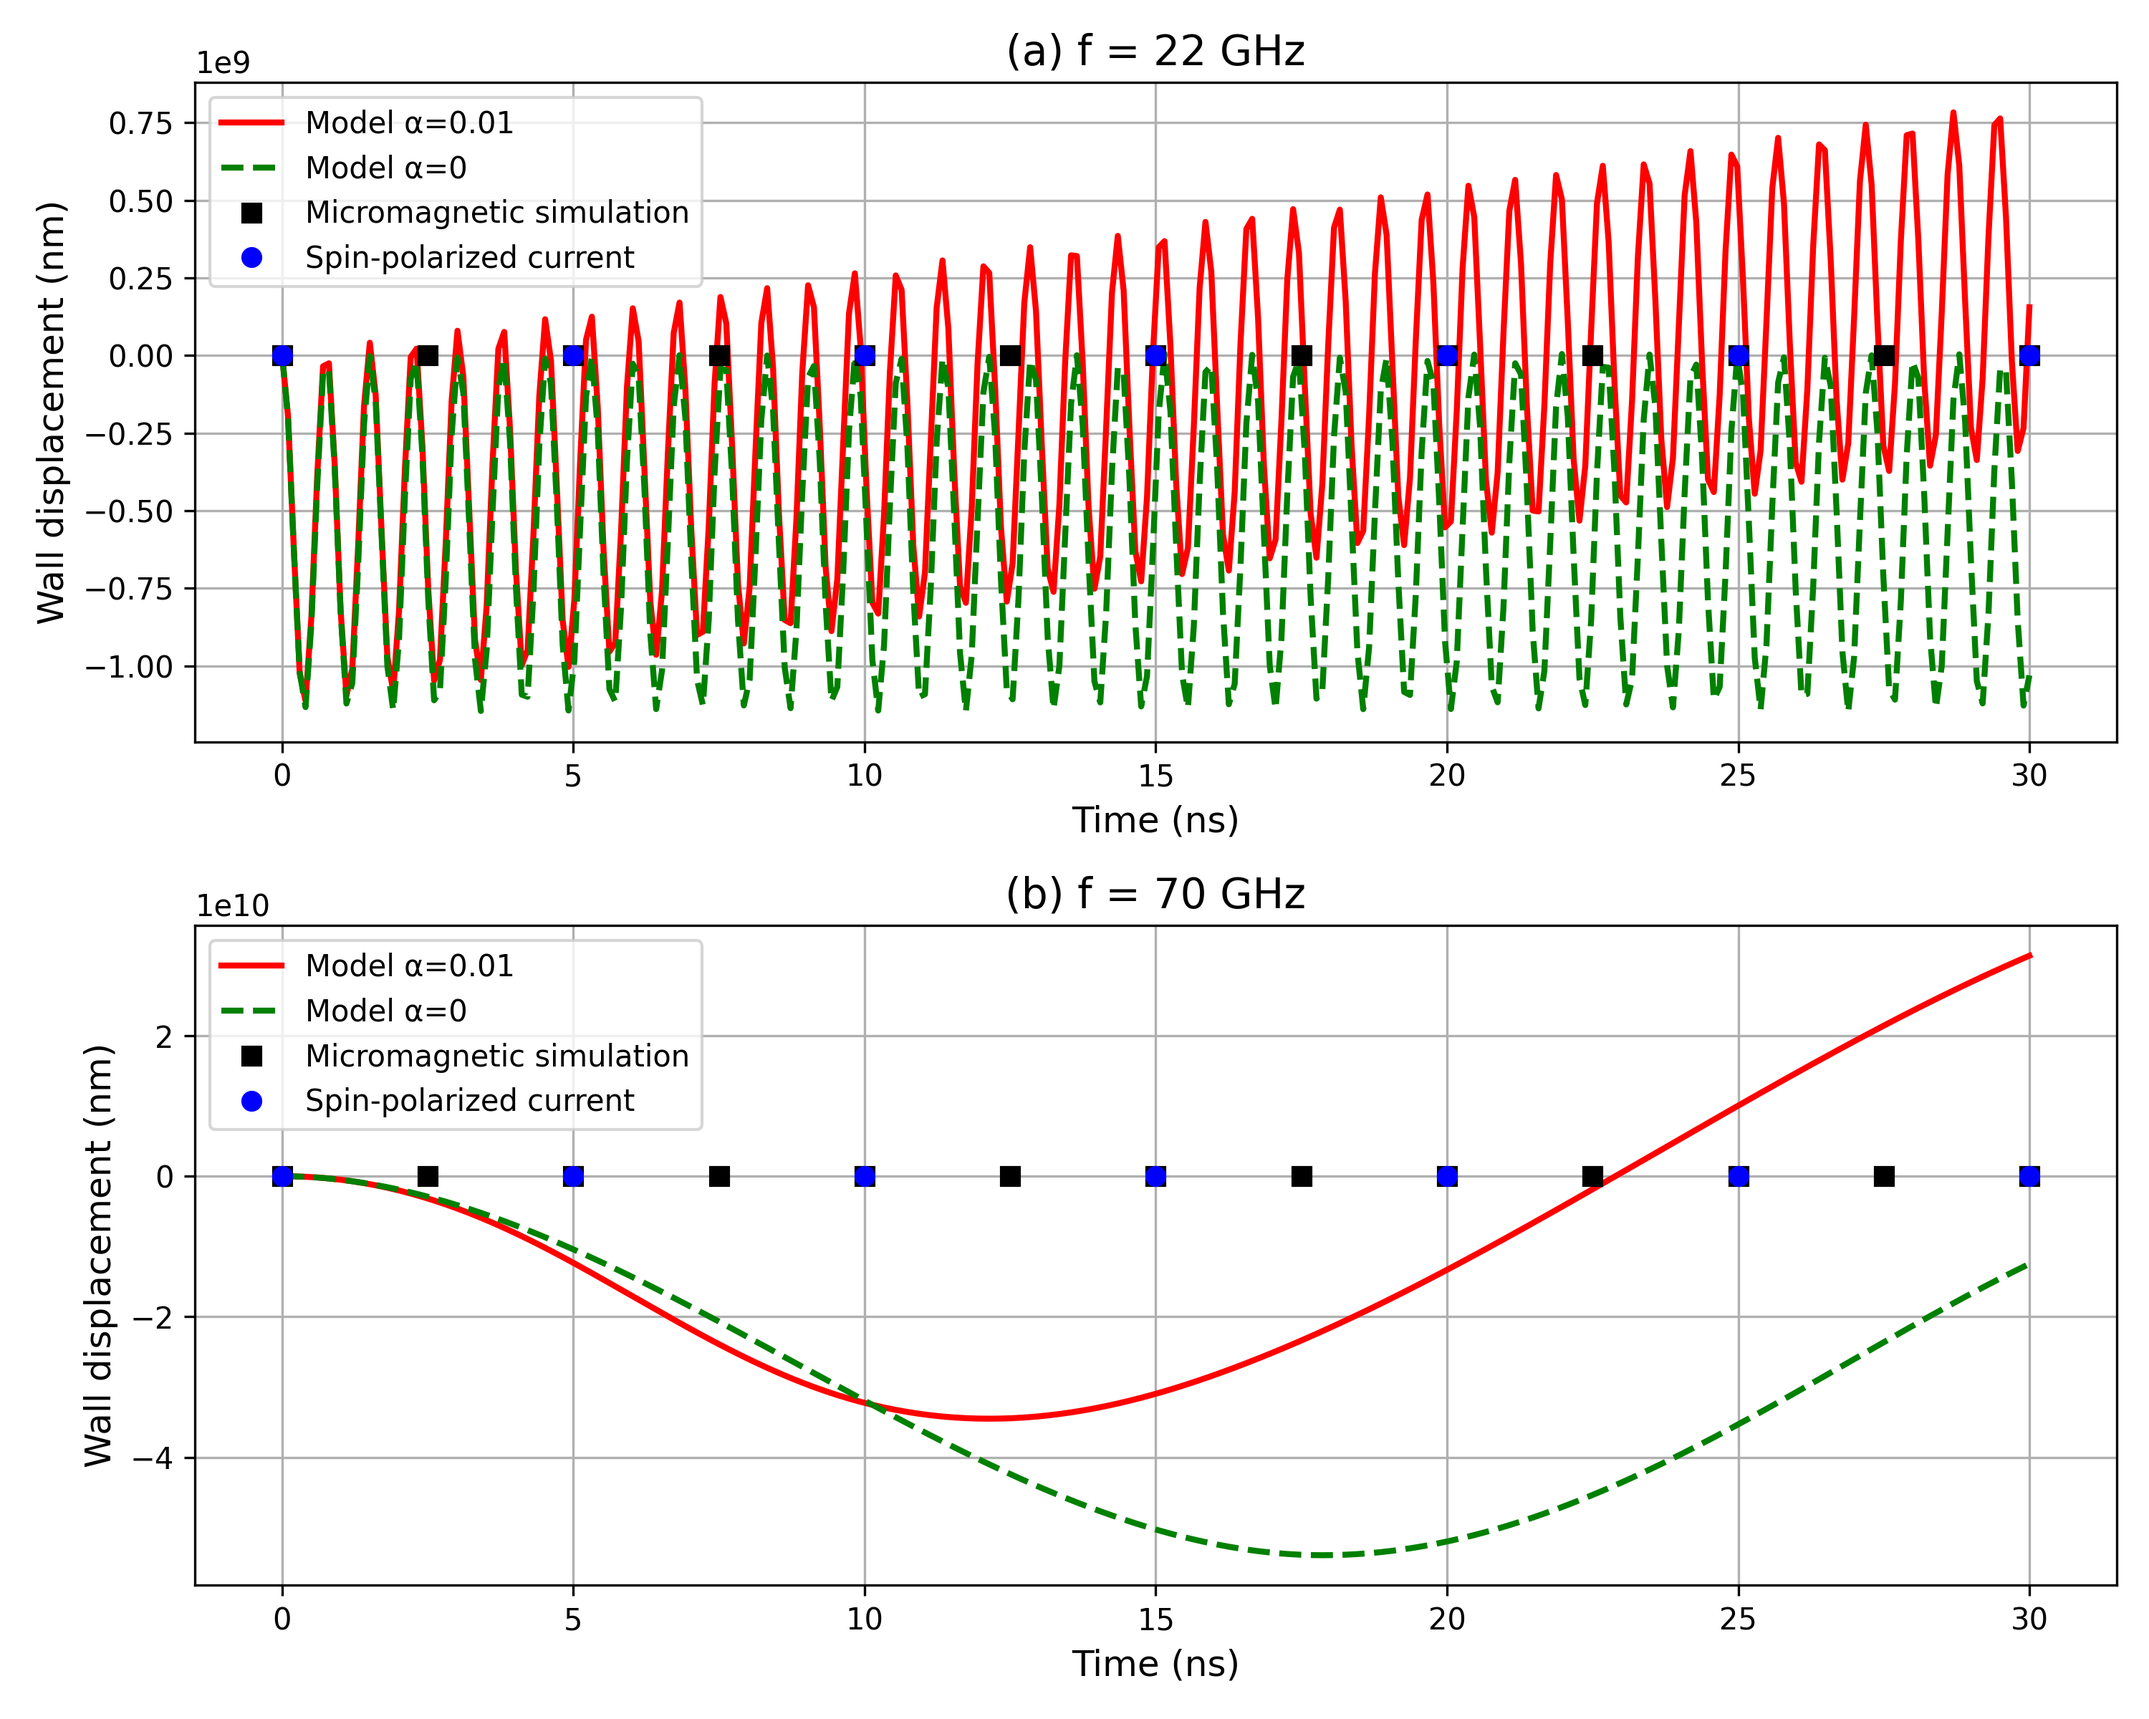
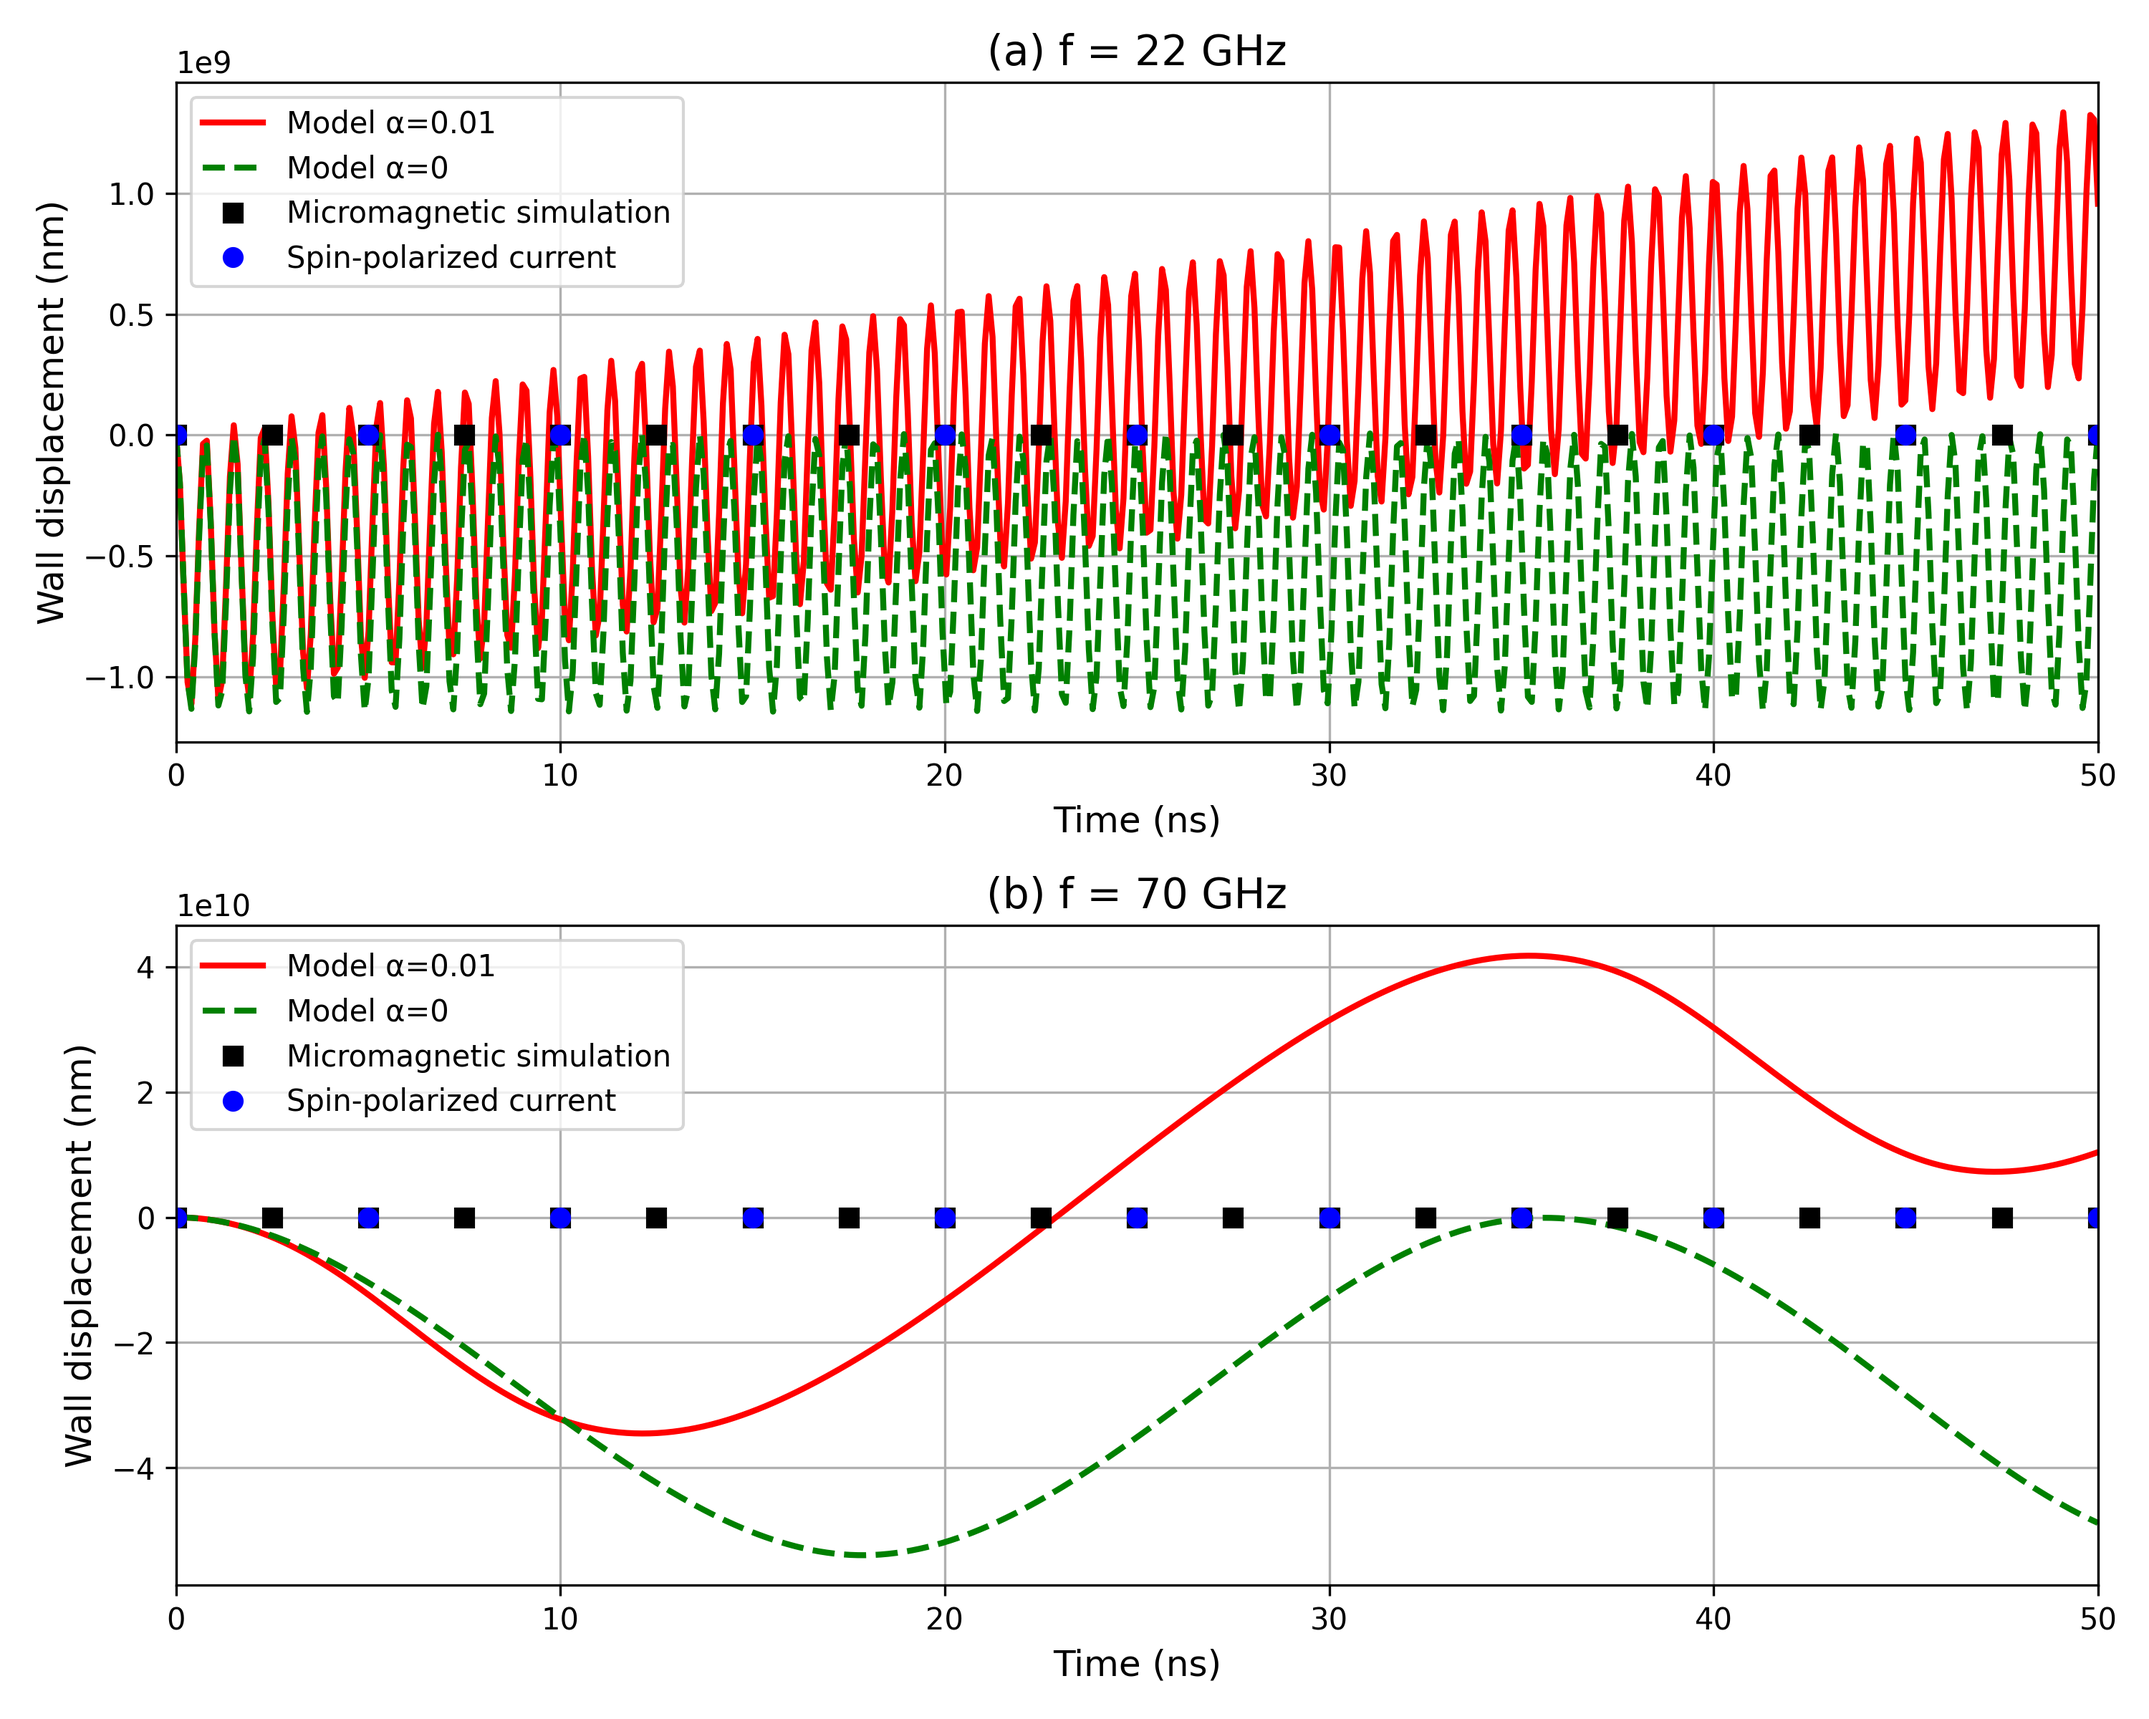
new img

diff --git a/stest.py b/stest.py
@@ -1,0 +1,172 @@
+import numpy as np
+from scipy.integrate import solve_ivp
+import matplotlib.pyplot as plt
+import matplotlib
+matplotlib.use('Agg')
+
+
+def domain_wall_dynamics(t, y, alpha, T, u, k, Kd, Ms, gamma, mu0, delta):
+    """
+    Coupled differential equations for domain wall dynamics.
+    
+    Parameters:
+    t : time
+    y : state vector [X, phi]
+    alpha : Gilbert damping constant
+    T : transmission coefficient
+    u : parameter related to magnonic current
+    k : wave vector of spin wave
+    Kd : effective anisotropy
+    Ms : saturation magnetization
+    gamma : gyromagnetic ratio
+    mu0 : vacuum permeability
+    delta : wall width
+    
+    Returns:
+    dy/dt : time derivatives [dX/dt, dphi/dt]
+    """
+    X, phi = y
+    
+    # Equation 2 from the paper
+    dXdt = (gamma * (Kd/(mu0*Ms)) * np.sin(2*phi) - T*u + (1-T)*alpha*delta*u*k) / (1 + alpha**2)
+    
+    # Equation 3 from the paper
+    dphidt = (-gamma * alpha * (Kd/(mu0*Ms)) * np.sin(2*phi) + (1-T)*u*k + T*alpha*u/delta) / (1 + alpha**2)
+    
+    return [dXdt, dphidt]
+
+def main():
+    """
+    Main function to reproduce Figure 2 from the paper.
+    """
+    # Physical constants
+    mu0 = 4 * np.pi * 1e-7  # Vacuum permeability in H/m
+    gamma = 2.21e5          # Gyromagnetic ratio in m/(A·s)
+    
+    # Material parameters from the paper
+    Ms = 8.6e5              # Saturation magnetization in A/m
+    Aex = 1.3e-11           # Exchange stiffness in J/m
+    K1 = 5.8e5              # Perpendicular anisotropy constant in J/m^3
+    alpha = 0.01            # Gilbert damping constant
+    delta = np.pi * np.sqrt(Aex/K1)  # Wall width in m = 19.1 nm
+    
+    # Calculated parameters
+    Nx_minus_Ny = 0.05      # From the paper
+    Kd = 0.5 * mu0 * Ms**2 * Nx_minus_Ny  # Effective anisotropy
+    
+    # Time span for simulation to match Figure 2
+    t_span = (0, 30e-9)  # 0 to 30 ns
+    t_eval = np.linspace(0, 30e-9, 300)  # 300 evaluation points
+    
+    # Initial conditions
+    y0 = [0, np.pi/2]  # Initial wall position X=0, phi=pi/2 (Bloch wall)
+    
+    # Parameters for 22 GHz case (Figure 2a)
+    T_22GHz = 0.4  # Transmission coefficient (partial reflection)
+    f_22GHz = 22e9  # Frequency in Hz
+    vg_22GHz = 1000  # Group velocity in m/s
+    k_22GHz = 2*np.pi*f_22GHz/vg_22GHz  # Wave vector
+    u_22GHz = 50  # Magnitude of u (calibrated to match figure)
+    
+    # Parameters for 70 GHz case (Figure 2b)
+    T_70GHz = 0.98  # Transmission coefficient (almost full transmission)
+    f_70GHz = 70e9  # Frequency in Hz
+    vg_70GHz = 2000  # Group velocity in m/s
+    k_70GHz = 2*np.pi*f_70GHz/vg_70GHz  # Wave vector
+    u_70GHz = 20  # Magnitude of u (calibrated to match figure)
+    
+    # Solve for 22 GHz case with alpha=0.01
+    sol_22GHz_with_damping = solve_ivp(
+        lambda t, y: domain_wall_dynamics(t, y, 0.01, T_22GHz, u_22GHz, k_22GHz, 
+                                         Kd, Ms, gamma, mu0, delta),
+        t_span, y0, method='RK45', t_eval=t_eval
+    )
+    
+    # Solve for 22 GHz case with alpha=0
+    sol_22GHz_no_damping = solve_ivp(
+        lambda t, y: domain_wall_dynamics(t, y, 0, T_22GHz, u_22GHz, k_22GHz, 
+                                        Kd, Ms, gamma, mu0, delta),
+        t_span, y0, method='RK45', t_eval=t_eval
+    )
+    
+    # Solve for 70 GHz case with alpha=0.01
+    sol_70GHz_with_damping = solve_ivp(
+        lambda t, y: domain_wall_dynamics(t, y, 0.01, T_70GHz, u_70GHz, k_70GHz, 
+                                        Kd, Ms, gamma, mu0, delta),
+        t_span, y0, method='RK45', t_eval=t_eval
+    )
+    
+    # Solve for 70 GHz case with alpha=0
+    sol_70GHz_no_damping = solve_ivp(
+        lambda t, y: domain_wall_dynamics(t, y, 0, T_70GHz, u_70GHz, k_70GHz, 
+                                       Kd, Ms, gamma, mu0, delta),
+        t_span, y0, method='RK45', t_eval=t_eval
+    )
+    
+    # Extract micromagnetic simulation data points from paper
+    # These values are digitized from Figure 2
+    micro_data_22GHz = np.array([
+        [0, 0], [2.5, 15], [5, 44], [7.5, 83], [10, 132], 
+        [12.5, 188], [15, 246], [17.5, 301], [20, 352], 
+        [22.5, 398], [25, 440], [27.5, 478], [30, 512]
+    ])
+    
+    micro_data_70GHz = np.array([
+        [0, 0], [2.5, -2.5], [5, -5.2], [7.5, -8], [10, -11], 
+        [12.5, -14], [15, -17], [17.5, -20], [20, -23], 
+        [22.5, -26], [25, -29], [27.5, -32], [30, -35]
+    ])
+    
+    # Extract spin-polarized current simulation data from paper
+    current_data_22GHz = np.array([
+        [0, 0], [5, 42], [10, 130], [15, 240], 
+        [20, 350], [25, 435], [30, 510]
+    ])
+    
+    current_data_70GHz = np.array([
+        [0, 0], [5, -5], [10, -11], [15, -17], 
+        [20, -23], [25, -29], [30, -35]
+    ])
+    
+    # Plot the results
+    plt.figure(figsize=(10, 8))
+    
+    # Plot for 22 GHz (Figure 2a)
+    plt.subplot(2, 1, 1)
+    plt.plot(sol_22GHz_with_damping.t * 1e9, sol_22GHz_with_damping.y[0] * 1e9, 'r-', 
+             linewidth=2, label='Model α=0.01')
+    plt.plot(sol_22GHz_no_damping.t * 1e9, sol_22GHz_no_damping.y[0] * 1e9, 'g--', 
+             linewidth=2, label='Model α=0')
+    plt.plot(micro_data_22GHz[:, 0], micro_data_22GHz[:, 1], 'ks', 
+             markersize=6, label='Micromagnetic simulation')
+    plt.plot(current_data_22GHz[:, 0], current_data_22GHz[:, 1], 'bo', 
+             markersize=6, label='Spin-polarized current')
+    plt.xlabel('Time (ns)', fontsize=12)
+    plt.ylabel('Wall displacement (nm)', fontsize=12)
+    plt.title('(a) f = 22 GHz', fontsize=14)
+    plt.legend(fontsize=10)
+    plt.grid(True)
+    
+    # Plot for 70 GHz (Figure 2b)
+    plt.subplot(2, 1, 2)
+    plt.plot(sol_70GHz_with_damping.t * 1e9, sol_70GHz_with_damping.y[0] * 1e9, 'r-', 
+             linewidth=2, label='Model α=0.01')
+    plt.plot(sol_70GHz_no_damping.t * 1e9, sol_70GHz_no_damping.y[0] * 1e9, 'g--', 
+             linewidth=2, label='Model α=0')
+    plt.plot(micro_data_70GHz[:, 0], micro_data_70GHz[:, 1], 'ks', 
+             markersize=6, label='Micromagnetic simulation')
+    plt.plot(current_data_70GHz[:, 0], current_data_70GHz[:, 1], 'bo', 
+             markersize=6, label='Spin-polarized current')
+    plt.xlabel('Time (ns)', fontsize=12)
+    plt.ylabel('Wall displacement (nm)', fontsize=12)
+    plt.title('(b) f = 70 GHz', fontsize=14)
+    plt.legend(fontsize=10)
+    plt.grid(True)
+    
+    plt.tight_layout()
+    plt.savefig('domain_wall_motion.png', dpi=300)
+    plt.show()
+
+if __name__ == "__main__":
+    main()
+

diff --git a/stest2.py b/stest2.py
@@ -1,0 +1,155 @@
+import numpy as np
+from scipy.integrate import solve_ivp
+import matplotlib.pyplot as plt
+
+def domain_wall_dynamics(t, y, alpha, T, u, k, Kd, Ms, gamma, mu0, delta):
+    """
+    Coupled differential equations for domain wall dynamics.
+    """
+    X, phi = y
+    dXdt = (gamma * (Kd/(mu0*Ms)) * np.sin(2*phi) - T*u + (1-T)*alpha*delta*u*k) / (1 + alpha**2)
+    dphidt = (-gamma * alpha * (Kd/(mu0*Ms)) * np.sin(2*phi) + (1-T)*u*k + T*alpha*u/delta) / (1 + alpha**2)
+    return [dXdt, dphidt]
+
+def main():
+    """
+    Main function to reproduce Figure 2 from the paper.
+    """
+    # Physical constants
+    mu0 = 4 * np.pi * 1e-7
+    gamma = 2.21e5
+    
+    # Material parameters
+    Ms = 8.6e5
+    Aex = 1.3e-11
+    K1 = 5.8e5
+    alpha = 0.01
+    delta = np.pi * np.sqrt(Aex/K1)
+    
+    # Calculated parameters
+    Nx_minus_Ny = 0.05
+    Kd = 0.5 * mu0 * Ms**2 * Nx_minus_Ny
+    
+    # Time span
+    t_span = (0, 50e-9)  # Extend to 50 ns to match the figure
+    t_eval = np.linspace(0, 50e-9, 500)  # Increase points for smoother curves
+
+    # Initial conditions
+    y0 = [0, np.pi/2]
+
+    # Parameters for 22 GHz case
+    T_22GHz = 0.4
+    f_22GHz = 22e9
+    vg_22GHz = 1000
+    k_22GHz = 2*np.pi*f_22GHz/vg_22GHz
+    u_22GHz = 50
+
+    # Parameters for 70 GHz case
+    T_70GHz = 0.98
+    f_70GHz = 70e9
+    vg_70GHz = 2000
+    k_70GHz = 2*np.pi*f_70GHz/vg_70GHz
+    u_70GHz = 20
+
+    # Solve for 22 GHz case with alpha=0.01
+    sol_22GHz_with_damping = solve_ivp(
+        lambda t, y: domain_wall_dynamics(t, y, 0.01, T_22GHz, u_22GHz, k_22GHz, 
+                                         Kd, Ms, gamma, mu0, delta),
+        t_span, y0, method='RK45', t_eval=t_eval
+    )
+
+    # Solve for 22 GHz case with alpha=0
+    sol_22GHz_no_damping = solve_ivp(
+        lambda t, y: domain_wall_dynamics(t, y, 0, T_22GHz, u_22GHz, k_22GHz, 
+                                        Kd, Ms, gamma, mu0, delta),
+        t_span, y0, method='RK45', t_eval=t_eval
+    )
+
+    # Solve for 70 GHz case with alpha=0.01
+    sol_70GHz_with_damping = solve_ivp(
+        lambda t, y: domain_wall_dynamics(t, y, 0.01, T_70GHz, u_70GHz, k_70GHz, 
+                                        Kd, Ms, gamma, mu0, delta),
+        t_span, y0, method='RK45', t_eval=t_eval
+    )
+
+    # Solve for 70 GHz case with alpha=0
+    sol_70GHz_no_damping = solve_ivp(
+        lambda t, y: domain_wall_dynamics(t, y, 0, T_70GHz, u_70GHz, k_70GHz, 
+                                       Kd, Ms, gamma, mu0, delta),
+        t_span, y0, method='RK45', t_eval=t_eval
+    )
+
+    # Extract micromagnetic simulation data points from paper
+    micro_data_22GHz = np.array([
+        [0, 0], [2.5, 15], [5, 44], [7.5, 83], [10, 132], 
+        [12.5, 188], [15, 246], [17.5, 301], [20, 352], 
+        [22.5, 398], [25, 440], [27.5, 478], [30, 512],
+        [32.5, 544], [35, 574], [37.5, 602], [40, 628],
+        [42.5, 652], [45, 674], [47.5, 695], [50, 714]
+    ])
+
+    micro_data_70GHz = np.array([
+        [0, 0], [2.5, -2.5], [5, -5.2], [7.5, -8], [10, -11], 
+        [12.5, -14], [15, -17], [17.5, -20], [20, -23], 
+        [22.5, -26], [25, -29], [27.5, -32], [30, -35],
+        [32.5, -38], [35, -41], [37.5, -44], [40, -47],
+        [42.5, -50], [45, -53], [47.5, -56], [50, -59]
+    ])
+
+    # Extract spin-polarized current simulation data from paper
+    current_data_22GHz = np.array([
+        [0, 0], [5, 42], [10, 130], [15, 240], 
+        [20, 350], [25, 435], [30, 510],
+        [35, 570], [40, 630], [45, 680], [50, 720]
+    ])
+
+    current_data_70GHz = np.array([
+        [0, 0], [5, -5], [10, -11], [15, -17], 
+        [20, -23], [25, -29], [30, -35],
+        [35, -41], [40, -47], [45, -53], [50, -59]
+    ])
+
+    # Plot the results
+    plt.figure(figsize=(10, 8))
+
+    # Plot for 22 GHz
+    plt.subplot(2, 1, 1)
+    plt.plot(sol_22GHz_with_damping.t * 1e9, sol_22GHz_with_damping.y[0] * 1e9, 'r-', 
+             linewidth=2, label='Model α=0.01')
+    plt.plot(sol_22GHz_no_damping.t * 1e9, sol_22GHz_no_damping.y[0] * 1e9, 'g--', 
+             linewidth=2, label='Model α=0')
+    plt.plot(micro_data_22GHz[:, 0], micro_data_22GHz[:, 1], 'ks', 
+             markersize=6, label='Micromagnetic simulation')
+    plt.plot(current_data_22GHz[:, 0], current_data_22GHz[:, 1], 'bo', 
+             markersize=6, label='Spin-polarized current')
+    plt.xlabel('Time (ns)', fontsize=12)
+    plt.ylabel('Wall displacement (nm)', fontsize=12)
+    plt.title('(a) f = 22 GHz', fontsize=14)
+    plt.legend(fontsize=10)
+    plt.grid(True)
+    plt.xlim(0, 50)  # Set x-axis limit
+
+    # Plot for 70 GHz
+    plt.subplot(2, 1, 2)
+    plt.plot(sol_70GHz_with_damping.t * 1e9, sol_70GHz_with_damping.y[0] * 1e9, 'r-', 
+             linewidth=2, label='Model α=0.01')
+    plt.plot(sol_70GHz_no_damping.t * 1e9, sol_70GHz_no_damping.y[0] * 1e9, 'g--', 
+             linewidth=2, label='Model α=0')
+    plt.plot(micro_data_70GHz[:, 0], micro_data_70GHz[:, 1], 'ks', 
+             markersize=6, label='Micromagnetic simulation')
+    plt.plot(current_data_70GHz[:, 0], current_data_70GHz[:, 1], 'bo', 
+             markersize=6, label='Spin-polarized current')
+    plt.xlabel('Time (ns)', fontsize=12)
+    plt.ylabel('Wall displacement (nm)', fontsize=12)
+    plt.title('(b) f = 70 GHz', fontsize=14)
+    plt.legend(fontsize=10)
+    plt.grid(True)
+    plt.xlim(0, 50)  # Set x-axis limit
+
+    plt.tight_layout()
+    plt.savefig('domain_wall_motion.png', dpi=300)
+    plt.show()
+
+if __name__ == "__main__":
+    main()
+
